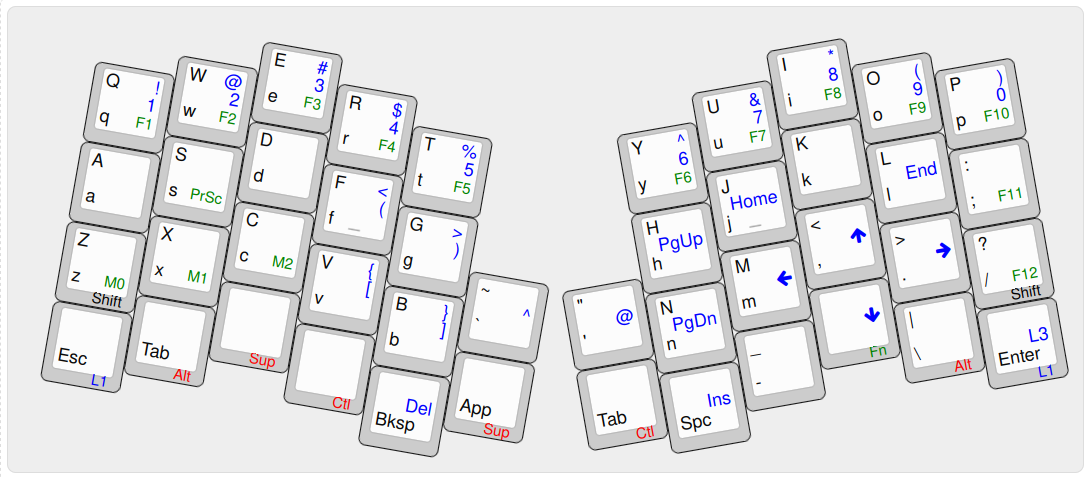
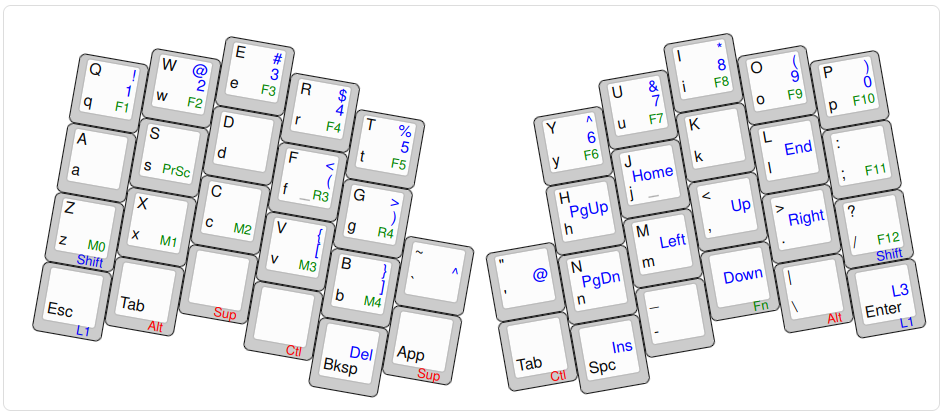
Bring in dynamic macros for the remaining two macro keys
So, 3 predefined macro keys and 2 definable in use.

- updated the layout picture
- empty macro.c source file, we dont use specifics yet.

diff --git a/src/macro.c b/src/macro.c
@@ -1,0 +1,12 @@
+#include QMK_KEYBOARD_H
+
+/* Macro related functions.
+
+   There are 2 places dealing with macros now:
+
+   1. The keymap defines the macros 0,1 and 2 to have predefined values
+
+   2. macros 3 and 4 are dynamic macros, no default value
+
+
+*/
